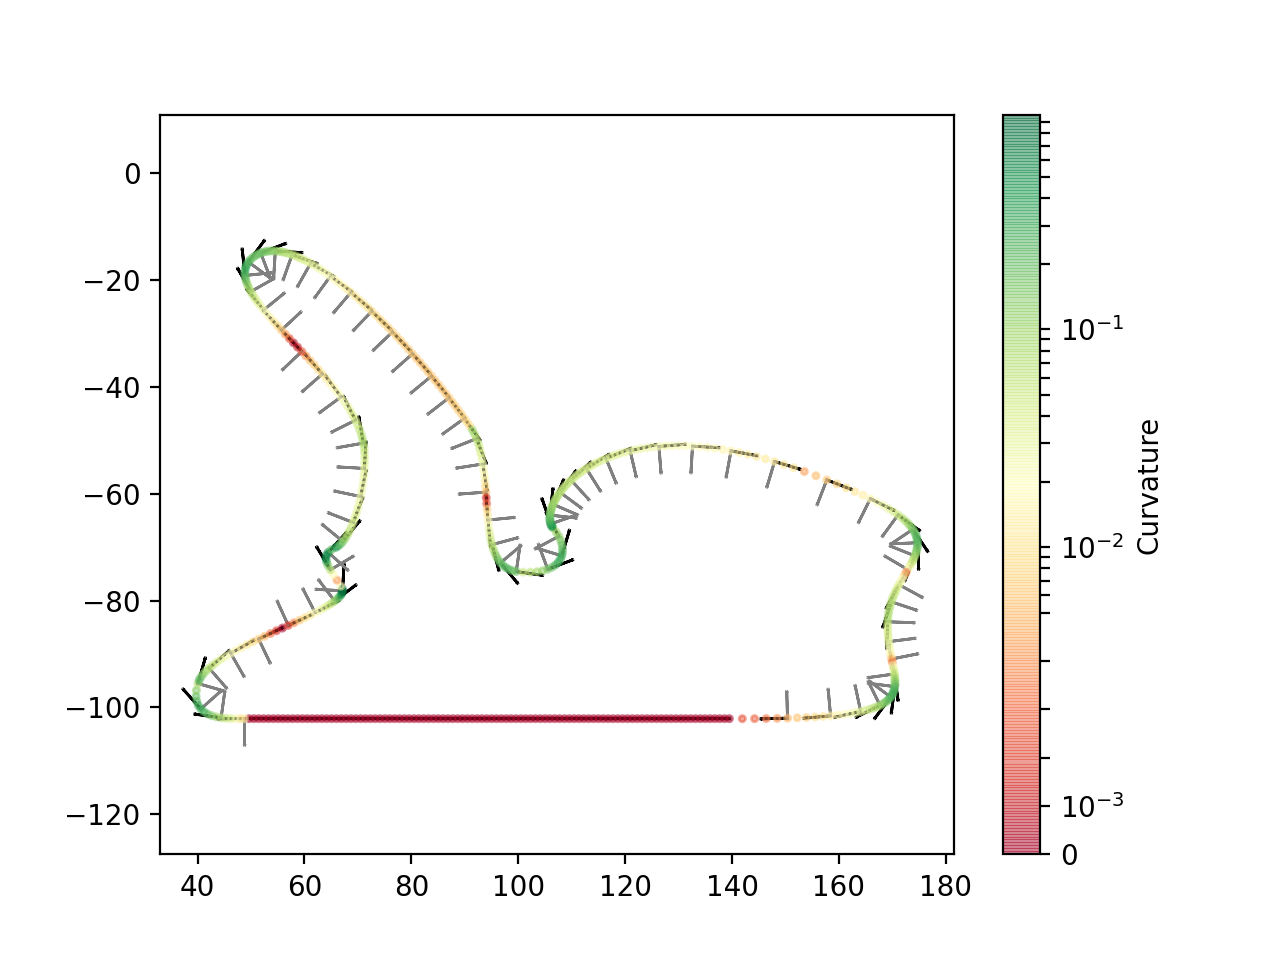
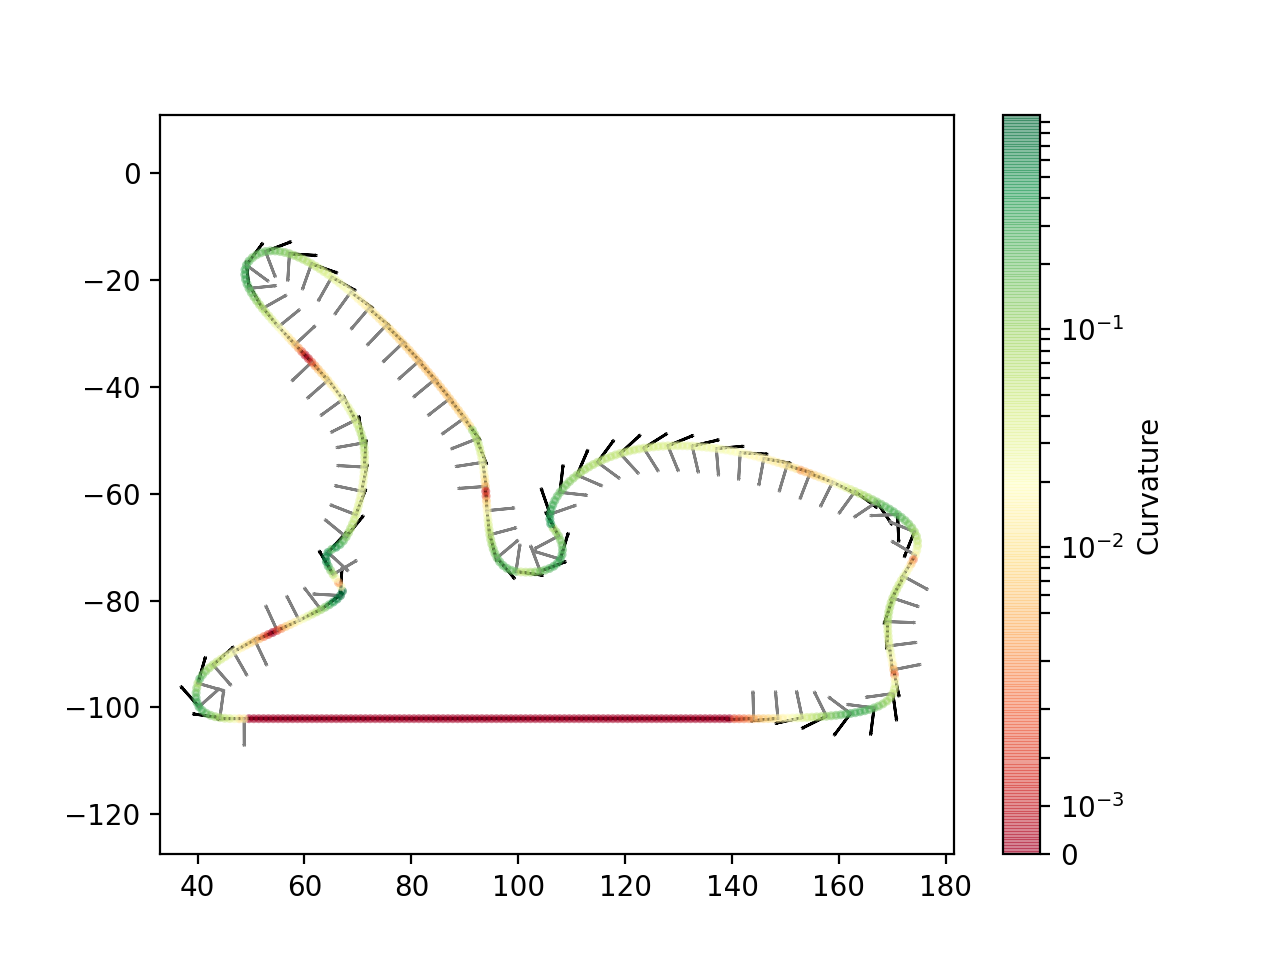
reparametrize cubic bezier curves with arc length > linearly scaled sampling

diff --git a/svg2trajectory/elements.py b/svg2trajectory/elements.py
@@ -2,29 +2,46 @@ from svg.path import Line, CubicBezier, Move, Close
 import casadi as cas
 
 
+def quadrature(fcn, a, b, N=100):
+    # Simpson's rule
+    N += 1 if N % 2 != 0 else 0
+    fcnmap = fcn.map(N+1)
+    xvals = cas.linspace(a, b, N+1)
+    fvals = fcnmap(xvals)
+    return (b-a)/N/3 * (fvals[0] + 4*cas.sum2(fvals[1::2]) + 2*cas.sum2(fvals[2:-2:2]) + fvals[-1])
+
+
 class SymbolicMixin(object):
     def __init__(self):
         self._s = cas.SX.sym('s')
         self._expr = cas.SX.nan(2, 1)
 
     def arclength(self, s):
-        # arc length for s \in [0,1]
-        deriv = cas.jacobian(self._expr, self._s)
         length = cas.integrator(
             'integrator',
             'rk',
-            {'x': cas.SX.sym('null'), 't': self._s, 'ode': 0, 'quad': cas.norm_2(deriv)},
+            {'x': cas.SX.sym('null'), 't': self._s, 'ode': 0, 'quad': cas.norm_2(cas.jacobian(self._expr, self._s))},
             {'t0': 0.0, 'tf': s}
         ).call({})['qf']
         return length
 
 
 class SymbolicElement(SymbolicMixin):
-    def __init__(self, base):
+    def __init__(self, base, expr_from=None):
         SymbolicMixin.__init__(self)
         self.start = cas.DM([base.start.real, -base.start.imag])
         self.end = cas.DM([base.end.real, -base.end.imag])
-        self._expr = self.point(self._s)
+        if expr_from:
+            self._expr = expr_from(self, self._s)
+        else:
+            self._expr = self.point(self._s)
+        self._tangent = cas.jacobian(self._expr, self._s)
+        self._tangent_norm = cas.norm_2(self._tangent)
+
+    def arclength(self, s):
+        # approximation of arc length for elements
+        fcn = cas.Function('fcn', [self._s], [self._tangent_norm])
+        return quadrature(fcn, 0.0, s)
 
 
 class SymbolicLine(SymbolicElement, Line):
@@ -39,11 +56,24 @@ class SymbolicCubicBezier(SymbolicElement, CubicBezier):
     def __init__(self, base):
         self.control1 = cas.DM([base.control1.real, -base.control1.imag])
         self.control2 = cas.DM([base.control2.real, -base.control2.imag])
-        SymbolicElement.__init__(self, base)
+        SymbolicElement.__init__(self, base, expr_from=CubicBezier.point)
+
+        self._rescaler = self._setup_rescaler()
+
+    def _setup_rescaler(self):
+        # find a point where arc length == s * length
+        s_noli = cas.SX.sym('s_noli')
+        fcn = cas.Function('fcn', [self._s, s_noli], [self.arclength(self._s) - s_noli*self.length()])
+        return cas.rootfinder('r', 'newton', fcn)
+
+    def s_linear_scale(self, s):
+        return self._rescaler(s, s)
+
+    def point(self, s):
+        return CubicBezier.point(self, self.s_linear_scale(s))
 
     def length(self, **kwargs):
         return float(self.arclength(1.0))
-
 
 # class SymbolicQuadraticBezier(SymbolicElement, QuadraticBezier):
 #     def __init__(self, base):
@@ -57,7 +87,8 @@ class SymbolicCubicBezier(SymbolicElement, CubicBezier):
 #     def __init__(self, base):
 #         SymbolicElement.__init__(self, base)
 #
-#         self._expr = self.point(self._s)
+#     def length(self, **kwargs):
+#         return float(self.arclength(1.0))
 
 
 class SymbolicMove(SymbolicElement, Move):
